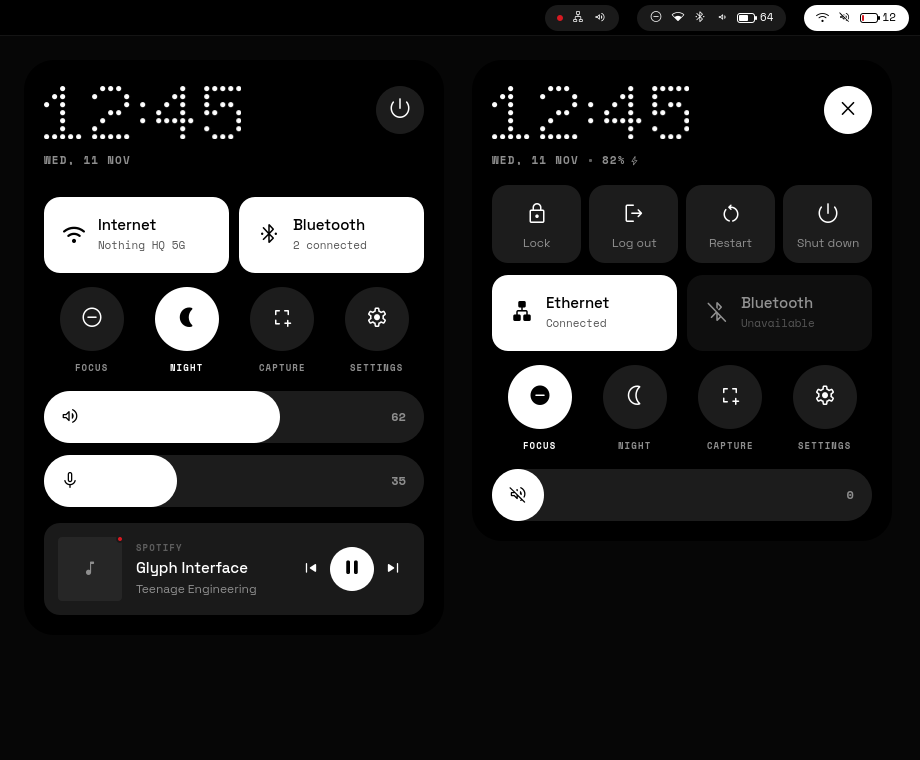
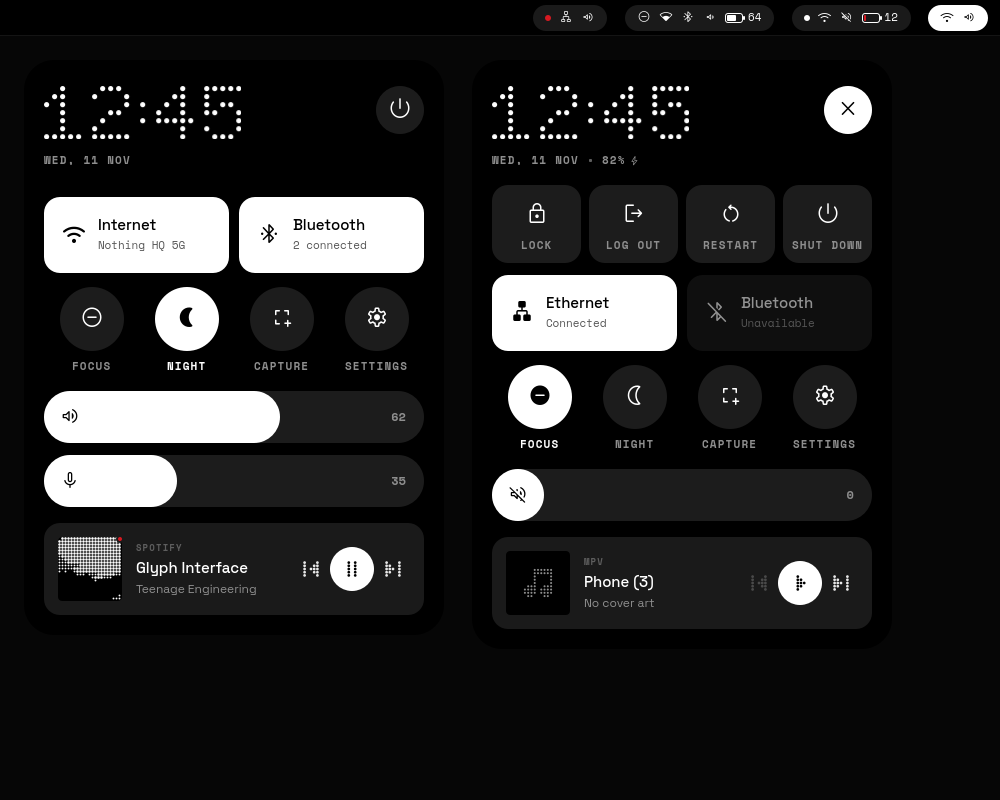
controlcenter: round 5

diff --git a/plasma/plasmoids/org.nothing.controlcenter/contents/ui/MediaCard.qml b/plasma/plasmoids/org.nothing.controlcenter/contents/ui/MediaCard.qml
@@ -1,6 +1,5 @@
 import QtQuick
 import QtQuick.Layouts
-import QtQuick.Effects
 import "nothing"
 
 // Now-playing mini card: monochrome art, title/artist, transport.
@@ -13,6 +12,7 @@ Rectangle {
     property bool playing: false
     property bool canPrev: true
     property bool canNext: true
+    property bool accent: true          // false when another red (critical battery) owns the surface
     signal prev()
     signal playPause()
     signal next()
@@ -28,32 +28,35 @@ Rectangle {
 
         Item {
             Layout.preferredWidth: 64; Layout.preferredHeight: 64
-            Rectangle { id: artMask; anchors.fill: parent; radius: 4; color: "white"; visible: false; layer.enabled: true }
-            Rectangle { anchors.fill: parent; radius: 4; color: Theme.card3 }
-            Image {
-                id: artImg
+            // cover art as a halftone dot portrait on a black tile (shared kit, same as the media widget)
+            Rectangle { anchors.fill: parent; radius: 4; color: Theme.bg }
+            ArtCanvas {
+                id: art
                 anchors.fill: parent
+                visible: root.art !== ""
                 source: root.art
-                fillMode: Image.PreserveAspectCrop
-                asynchronous: true
-                visible: false
-                sourceSize: Qt.size(128, 128)
+                mode: "halftone"
+                radius: 4
+                pitch: 3
+                fadeTop: 0
+                fadeBottom: 0
+                matte: "#1a1a1a"
             }
-            MultiEffect {
-                anchors.fill: parent
-                source: artImg
-                visible: artImg.status === Image.Ready
-                saturation: -1
-                contrast: 0.1
-                maskEnabled: true
-                maskSource: artMask
+            // no cover art: dot note pictogram on black
+            DotGlyph {
+                anchors.centerIn: parent
+                visible: !art.ready
+                width: 36; height: 36
+                icon: "note"
+                dimColor: "transparent"
+                litColor: Theme.fg2
+                halfColor: Theme.fg2
             }
-            Icon { anchors.centerIn: parent; visible: artImg.status !== Image.Ready; name: "music_note"; color: Theme.fg2 }
             // live dot: the one red accent, only while playing
             Rectangle {
                 visible: root.playing
                 width: 8; height: 8; radius: 4
-                color: Theme.red
+                color: root.accent ? Theme.red : Theme.fg
                 border.color: "#1a1a1a"; border.width: 2
                 anchors.right: parent.right; anchors.top: parent.top
                 anchors.rightMargin: -2; anchors.topMargin: -2
@@ -83,22 +86,38 @@ Rectangle {
 
         Row {
             spacing: 2
-            Pressable {
-                width: 34; height: 44; enabled: root.canPrev; opacity: enabled ? 1 : 0.35
-                onClicked: root.prev()
-                Icon { anchors.centerIn: parent; name: "skip_previous"; fill: 1; size: 22 }
+            component Transport: Pressable {
+                id: t
+                property string glyph
+                property bool can: true
+                width: 34; height: 44
+                enabled: can
+                DotGlyph {
+                    anchors.centerIn: parent
+                    width: 16; height: 16
+                    icon: t.glyph
+                    dimColor: "transparent"
+                    dotRatio: 0.9
+                    litColor: t.can ? Theme.fg : "#4a4a4a"
+                    opacity: t.can && !t.containsMouse ? 0.9 : 1
+                }
             }
+            Transport { glyph: "prev"; can: root.canPrev; onClicked: root.prev() }
             Pressable {
                 width: 44; height: 44
                 onClicked: root.playPause()
                 Rectangle { anchors.fill: parent; radius: 22; color: Theme.fg }
-                Icon { anchors.centerIn: parent; name: root.playing ? "pause" : "play_arrow"; fill: 1; color: Theme.bg; size: 24 }
+                DotGlyph {
+                    anchors.centerIn: parent
+                    anchors.horizontalCenterOffset: root.playing ? 0 : 1
+                    width: 16; height: 16
+                    icon: root.playing ? "pause" : "play"
+                    dimColor: "transparent"
+                    litColor: Theme.bg
+                    dotRatio: 0.9
+                }
             }
-            Pressable {
-                width: 34; height: 44; enabled: root.canNext; opacity: enabled ? 1 : 0.35
-                onClicked: root.next()
-                Icon { anchors.centerIn: parent; name: "skip_next"; fill: 1; size: 22 }
-            }
+            Transport { glyph: "next"; can: root.canNext; onClicked: root.next() }
         }
     }
 }

diff --git a/plasma/plasmoids/org.nothing.controlcenter/contents/ui/ControlPanel.qml b/plasma/plasmoids/org.nothing.controlcenter/contents/ui/ControlPanel.qml
@@ -174,12 +174,12 @@ Item {
                             y: 15
                             color: pw.modelData.a === "shutdown" && pw.containsMouse ? Theme.red : Theme.fg
                         }
-                        Text {
+                        Label {
                             anchors.horizontalCenter: parent.horizontalCenter
-                            anchors.top: pwIcon.bottom; anchors.topMargin: 6
-                            text: pw.modelData.t
+                            anchors.top: pwIcon.bottom; anchors.topMargin: 8
+                            text: pw.modelData.t      // uppercase mono, like the toggle captions
+                            size: 11
                             color: Theme.fg2
-                            font.family: Theme.sans; font.pixelSize: 12; font.weight: Font.Normal
                         }
                     }
                 }
@@ -263,7 +263,7 @@ Item {
                         anchors.horizontalCenter: parent.horizontalCenter
                         anchors.bottom: parent.bottom
                         text: rt.modelData.t
-                        size: 9
+                        size: 11
                         color: rt.on ? Theme.fg : (rt.avail ? Theme.fg2 : Theme.fg3)   // off ≠ unavailable
                     }
                 }
@@ -302,6 +302,7 @@ Item {
             art: root.mediaArt
             app: root.mediaApp
             playing: root.mediaPlaying
+            accent: !(root.hasBattery && root.batteryPercent <= 15 && !root.charging)   // one red per surface
             canPrev: root.mediaCanPrev
             canNext: root.mediaCanNext
             onPrev: root.mediaPrev()

diff --git a/previews/ControlCenterPreview.qml b/previews/ControlCenterPreview.qml
@@ -18,7 +18,8 @@ Rectangle {
             spacing: 18
             StatusPill { height: 36; netIcon: "lan"; volIcon: "volume_up"; unread: true }
             StatusPill { height: 36; netIcon: "network_wifi_3_bar"; btOn: true; btConnected: true; volIcon: "volume_down"; hasBattery: true; batteryPercent: 64; dnd: true }
-            StatusPill { height: 36; netIcon: "wifi"; volIcon: "volume_off"; hasBattery: true; batteryPercent: 12; open: true }
+            StatusPill { height: 36; netIcon: "wifi"; volIcon: "volume_off"; hasBattery: true; batteryPercent: 12; unread: true }
+            StatusPill { height: 36; netIcon: "wifi"; volIcon: "volume_up"; open: true }
         }
     }
 
@@ -34,6 +35,7 @@ Rectangle {
             micAvailable: true; micVolume: 0.35
             mediaActive: true; mediaPlaying: true
             mediaTitle: "Glyph Interface"; mediaArtist: "Teenage Engineering"; mediaApp: "Spotify"
+            mediaArt: "file:///usr/share/wallpapers/Altai/contents/images/1080x1920.png"   // mock cover
         }
         ControlPanel {
             width: 420; height: implicitHeight
@@ -44,6 +46,7 @@ Rectangle {
             dnd: true
             volume: 0.3; muted: true; volIcon: "volume_off"
             powerOpen: true
+            mediaActive: true; mediaPlaying: false; mediaTitle: "Phone (3)"; mediaArtist: "No cover art"; mediaApp: "mpv"; mediaCanPrev: false
         }
     }
 }

diff --git a/plasma/plasmoids/org.nothing.controlcenter/contents/ui/StatusPill.qml b/plasma/plasmoids/org.nothing.controlcenter/contents/ui/StatusPill.qml
@@ -20,6 +20,8 @@ Item {
     property bool hovered: false
 
     readonly property int glyph: 14
+    // one red per surface: a critical battery outranks the unread dot (which turns white)
+    readonly property bool batteryCritical: hasBattery && batteryPercent <= 15 && !charging
 
     implicitHeight: 26
     implicitWidth: row.implicitWidth + 24
@@ -44,7 +46,7 @@ Item {
             visible: root.unread
             width: 6; height: 6; radius: 3
             anchors.verticalCenter: parent.verticalCenter
-            color: Theme.red
+            color: root.batteryCritical ? row.ink : Theme.red
         }
         Icon {
             visible: root.dnd
@@ -79,7 +81,7 @@ Item {
                     Rectangle {
                         x: 2; y: 2; height: 6; radius: 1
                         width: Math.max(1, 14 * Math.max(0, Math.min(100, root.batteryPercent)) / 100)
-                        color: root.batteryPercent <= 15 && !root.charging ? Theme.red : row.ink
+                        color: root.batteryCritical ? Theme.red : row.ink
                     }
                 }
                 Rectangle { x: 18; y: 3; width: 2; height: 4; radius: 1; color: row.ink }
